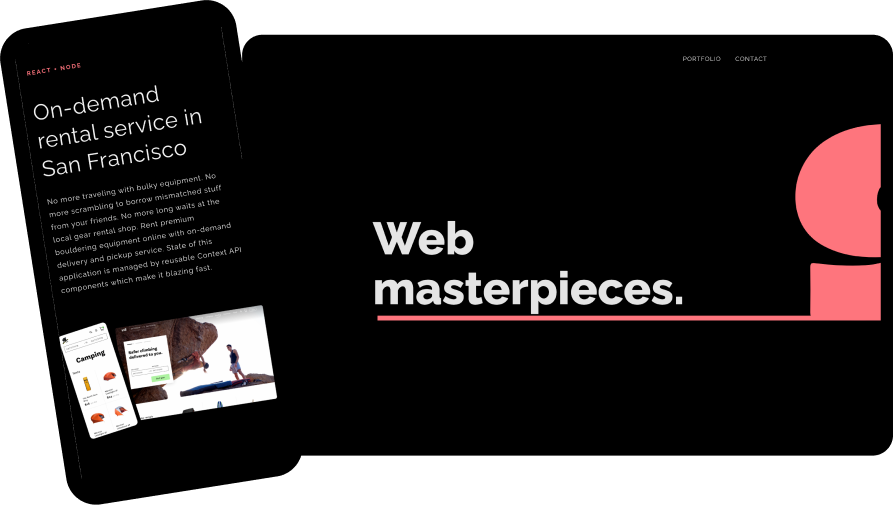
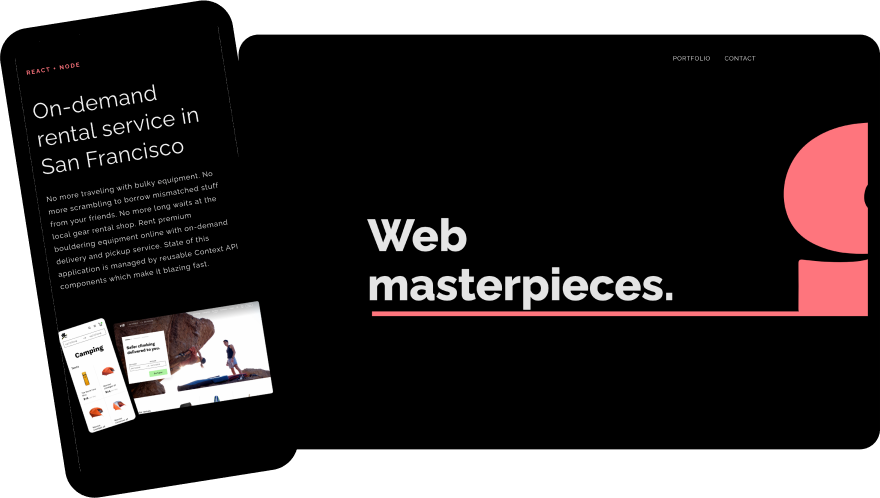
updated assets

diff --git a/src/components/ProjectSection/index.tsx b/src/components/ProjectSection/index.tsx
@@ -33,8 +33,8 @@ const Image = ({ src, alt, href, openInNewTab }: ImageProps) => {
         <a {...{ href, ...openInNewTab && { target: "_blank" } }} rel="noopener" >
             <img
                 onLoad={() => setClassName("fadeIn")}
-                width={940}
-                height={670}
+                width={880}
+                height={522}
                 {...{ src, alt, className }}
             />
         </a>
